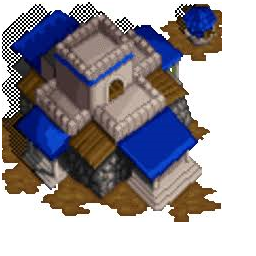
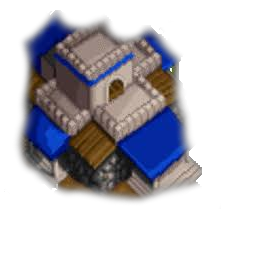
start gatherers

Changed region(s): [[0.0, 0.0, 0.875, 0.875], [0.75, 0.625, 0.7812, 0.6562]]

diff --git a/twentysixteen/src/techdemos/FogOfWarTechDemo.cpp b/twentysixteen/src/techdemos/FogOfWarTechDemo.cpp
@@ -7,6 +7,9 @@
 // RTS Stuff
 	// Make a building (Town Hall?)
 	// Make a unit (gatherer)
+		// make gatherer
+		// if right click
+		// if its a gatherer
 	// produce unit out of building (HUD buttons?)
 	// BUG: Draw order should use draw position not position
 	// Bug: Crashes when greenbox leaves area
@@ -43,7 +46,7 @@ void FogOfWarTechDemo::init()
 		Entity *current_entity = entities.at(i);
 		if (current_entity->type == GRID_SPAWNPOINT)
 		{
-			new_character = new FOWCharacter();
+			new_character = new FOWGatherer();
 			new_character->spine_data.load_spine_data("everybody");
 			spSkeleton_setSkinByName(new_character->spine_data.skeleton, "knight");
 			new_character->spine_data.animation_name = "idle";
@@ -54,16 +57,19 @@ void FogOfWarTechDemo::init()
 		}
 	}
 
-	FOWBuilding *new_building = new FOWBuilding(10,10, 3);
+	FOWBuilding *new_building = new FOWBuilding(9,7, 3);
 	entities.push_back(new_building);
-	new_building = new FOWBuilding(14, 14, 2);
+	new_building = new FOWGoldMine(22, 7, 3);
 	entities.push_back(new_building);
 
 	lookmode = false;
 
 	// this is actually important, need to fix lookat calc
 	camera_rotation_y = 1;
-	camera_distance = 25.0f;
+	camera_distance = 50.0f;
+	camera_pos.x = 15;
+	camera_pos.z = 10;
+
 
 	reset();
 }
@@ -143,16 +149,48 @@ void FogOfWarTechDemo::take_input(boundinput input, bool type)
 	if (input == RMOUSE && type == true)
 	{
 		t_vertex hit_position = grid_manager.convert_mouse_coords(mouse_in_space);
+		Entity *hit_target = nullptr;
+
+		// lets see if theres something on the hit position...
+		for (int i = 0; i < entities.size(); i++)
+		{
+			Entity *test = entities.at(i);
+			if (test->type == FOW_CHARACTER || test->type == FOW_BUILDING)
+			{
+				if (test->position.x == hit_position.x && test->position.z == hit_position.z
+					&& test->position.x == hit_position.x && test->position.z == hit_position.z)
+				{
+					hit_target = test;
+				}
+			}
+		}
 
 		if (new_player->selection_group.selected_characters.size() > 0)
 		{
 			for (int i = 0; i < new_player->selection_group.selected_characters.size(); i++)
-			{
-				if(new_player->queue_add_toggle == false)
-					new_player->selection_group.selected_characters.at(i)->command_queue.clear();
-				
-				if(new_player->selection_group.selected_characters.at(i)->type == FOW_CHARACTER)
-					((FOWCharacter*)new_player->selection_group.selected_characters.at(i))->give_command(FOWCommand(MOVE, t_vertex(hit_position.x+i, 0.0f, hit_position.z+i%2)));
+			{	
+				if (new_player->selection_group.selected_characters.at(i)->type == FOW_CHARACTER)
+				{
+					if (new_player->queue_add_toggle == false)
+						new_player->selection_group.selected_characters.at(i)->command_queue.clear();
+					((FOWCharacter*)new_player->selection_group.selected_characters.at(i))->give_command(FOWCommand(MOVE, t_vertex(hit_position.x + i, 0.0f, hit_position.z + i % 2)));
+				}
+
+				if (new_player->selection_group.selected_characters.at(i)->type == FOW_GATHERER)
+				{
+					if (hit_target != nullptr)
+					{
+						if (hit_target->type == FOW_BUILDING)
+						{
+						}
+					}
+					else
+					{
+						if (new_player->queue_add_toggle == false)
+							new_player->selection_group.selected_characters.at(i)->command_queue.clear();
+						((FOWCharacter*)new_player->selection_group.selected_characters.at(i))->give_command(FOWCommand(MOVE, t_vertex(hit_position.x + i, 0.0f, hit_position.z + i % 2)));
+					}
+				}
 			}
 		}
 	}
@@ -207,9 +245,9 @@ void FogOfWarTechDemo::draw_selections()
 	for (i = 0; i < entities.size(); i++)
 	{
 		glPushMatrix();
-		if (entities.at(i)->type == FOW_CHARACTER || entities.at(i)->type == FOW_BUILDING)
+		if (entities.at(i)->type == FOW_CHARACTER || entities.at(i)->type == FOW_BUILDING || entities.at(i)->type == FOW_GATHERER)
 		{
-			if (entities.at(i)->type == FOW_CHARACTER)
+			if (entities.at(i)->type == FOW_CHARACTER || entities.at(i)->type == FOW_GATHERER)
 			{
 				FOWCharacter *fow_character = (FOWCharacter*)entities.at(i);
 				draw_position = fow_character->draw_position;

diff --git a/twentysixteen/src/fow_building.h b/twentysixteen/src/fow_building.h
@@ -2,6 +2,13 @@
 
 #include "fow_selectable.h"
 
+enum building_types
+{
+	BUILDING,
+	TOWNHALL,
+	GOLDMINE
+};
+
 class FOWBuilding : public FOWSelectable
 {
 public:
@@ -13,6 +20,7 @@ public:
 	FOWBuilding(int x, int z, int size)
 	{
 		type = FOW_BUILDING;
+		subtype = BUILDING;
 		spine_data.load_spine_data("buildings");
 		position.x = x;
 		position.z = z;
@@ -31,4 +39,45 @@ public:
 
 	int size;
 
+	building_types subtype;
+
+};
+
+class FOWTownHall: public FOWBuilding
+{
+public:
+
+	FOWTownHall()
+	{
+	}
+
+	FOWTownHall(int x, int z, int size)
+	{
+		type = FOW_BUILDING;
+		subtype = TOWNHALL;
+		spine_data.load_spine_data("buildings");
+		position.x = x;
+		position.z = z;
+		this->size = size;
+	}
+
+};
+
+class FOWGoldMine : public FOWBuilding
+{
+public:
+
+	FOWGoldMine()
+	{
+	}
+
+	FOWGoldMine(int x, int z, int size)
+	{
+		type = FOW_BUILDING;
+		subtype = GOLDMINE;
+		spine_data.load_spine_data("buildings");
+		position.x = x;
+		position.z = z;
+		this->size = size;
+	}
 };

diff --git a/twentysixteen/src/fow_player.h b/twentysixteen/src/fow_player.h
@@ -43,7 +43,7 @@ public:
 						for (int i = 0; i < entities->size(); i++)
 						{
 							Entity *test = entities->at(i);
-							if (test->type == FOW_CHARACTER || test->type == FOW_BUILDING)
+							if (is_selectable(test->type))
 							{
 								if (test->position.x >= mins.x && test->position.z >= mins.y
 									&& test->position.x <= maxes.x && test->position.z <= maxes.y)
@@ -54,6 +54,11 @@ public:
 							}
 						}
 					}
+	}
+
+	bool is_selectable(entity_types type)
+	{
+		return (type == FOW_CHARACTER || type == FOW_GATHERER || type == FOW_BUILDING);
 	}
 
 	t_vertex gridstart_ui;

diff --git a/twentysixteen/src/techdemos/fow_character.h b/twentysixteen/src/techdemos/fow_character.h
@@ -9,7 +9,6 @@ public:
 	FOWCharacter()
 	{
 		type = FOW_CHARACTER;
-		selected = false;
 	}
 
 
@@ -135,4 +134,20 @@ public:
 	t_vertex draw_position;
 	t_vertex desired_position;
 	bool dirty_visibiltiy;
+};
+
+
+class FOWGatherer : public FOWCharacter
+{
+public:
+
+	FOWGatherer()
+	{
+		type = FOW_GATHERER;
+		has_gold = false;
+	}
+
+	bool has_gold;
+	FOWSelectable *target_mine;
+
 };

diff --git a/twentysixteen/src/grid_manager.cpp b/twentysixteen/src/grid_manager.cpp
@@ -157,7 +157,7 @@ void GridManager::load_map(std::string mapname)
 
 void GridManager::init()
 {
-	load_map("gridmap_medium");
+	load_map("garden_of_war");
 	
 	tile = ModelData::import("data/models/tile.fbx", 0.05);
 	wall = ModelData::import("data/models/tile_wall.fbx", 0.05);

diff --git a/twentysixteen/src/common.h b/twentysixteen/src/common.h
@@ -119,7 +119,8 @@ enum entity_types
 	GRID_SPAWNPOINT,
 	GRID_ENEMYSPAWNPOINT,
 	FOW_CHARACTER,
-	FOW_BUILDING
+	FOW_BUILDING,
+	FOW_GATHERER
 };
 
 typedef enum
